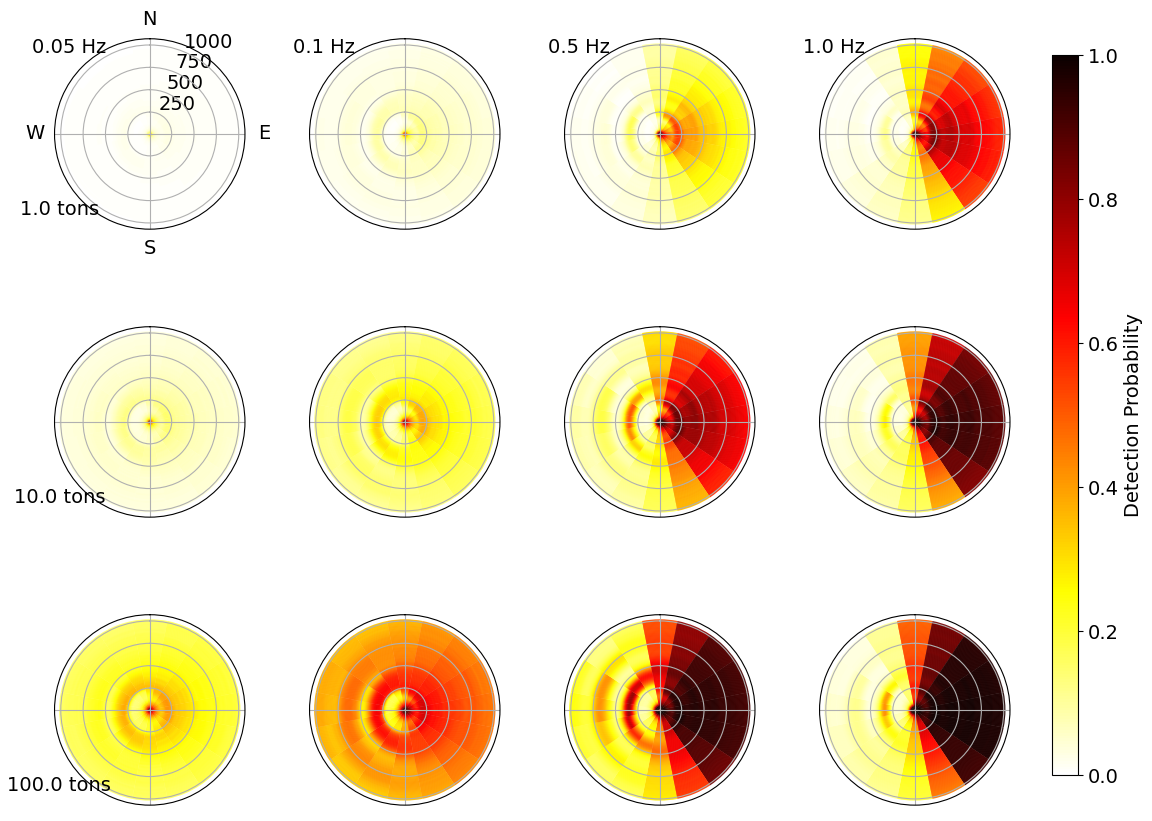
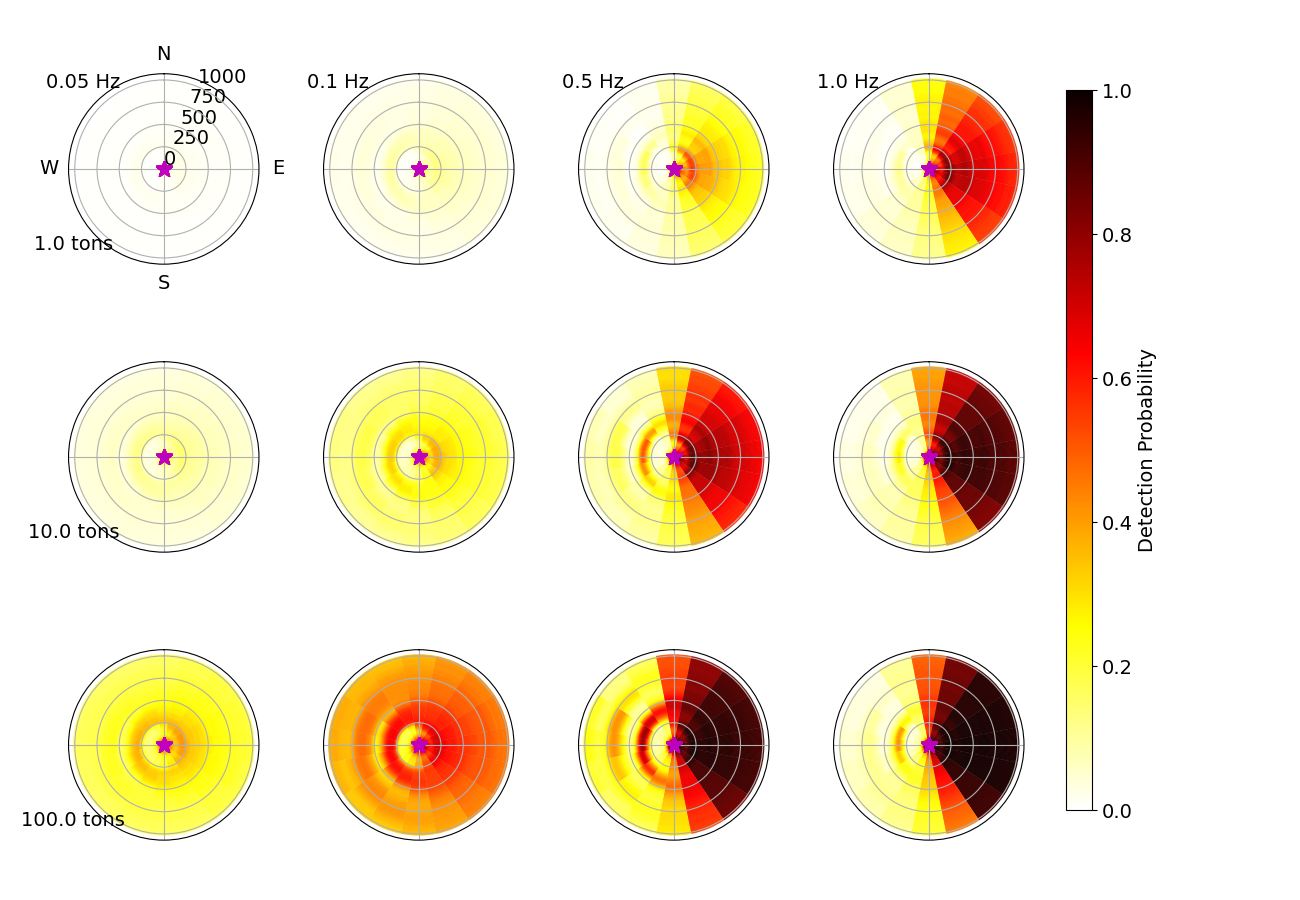
updates to quickstart and detection stats plotting

diff --git a/stochprop/propagation.py b/stochprop/propagation.py
@@ -1648,7 +1648,7 @@ def blastwave_spectrum(f, W, r, p_amb=101.325, T_amb=288.15, exp_type="chemical"
 #      Detection Capbility      #
 #     & Network Performance     #
 # ############################# #
-def plot_detection_stats(tlms, yld_vals, array_dim, output_path=None, show_fig=True):
+def plot_detection_stats(tlms, yld_vals, array_dim, output_path=None, show_fig=True, station_centered=False):
 
     plt.rcParams.update({'font.size': 14})
     _, ims_ns_cdf = ims_noise_model()
@@ -1703,21 +1703,23 @@ def plot_detection_stats(tlms, yld_vals, array_dim, output_path=None, show_fig=T
                 arrival = tlm.eval(rng_grid, P_grid - src0, np.ones_like(rng_grid) * center)
                 rng_prob = simpson(arrival * ims_ns_cdf(P_grid, tlm_freq, duration=duration, array_dim=array_dim), P_vals)
 
-                im = ax_j.bar(np.radians(np.array([center] * len(rng_vals))), width=np.radians(360.0 / tlm._az_bin_cnt), height=dr * 2.0, bottom=rng_vals, color=cm.hot_r(rng_prob), alpha=0.9)
+                if station_centered:
+                    im = ax_j.bar(np.radians(np.array([center + 180.0] * len(rng_vals))), width=np.radians(360.0 / tlm._az_bin_cnt), height=dr * 2.0, bottom=rng_vals, color=cm.hot_r(rng_prob), alpha=0.9)
+                    ax_j.plot([0.0], [0.0], '^g', markersize=10.0)
+                else:
+                    im = ax_j.bar(np.radians(np.array([center] * len(rng_vals))), width=np.radians(360.0 / tlm._az_bin_cnt), height=dr * 2.0, bottom=rng_vals, color=cm.hot_r(rng_prob), alpha=0.9)
+                    ax_j.plot([0.0], [0.0], '*m', markersize=12.0)
                         
     print('\n' + "Plotting detection statistics...", '\n')
-
     if len(yld_vals) > 1:
         for m in range(len(yld_vals)):
             axes[m][-1].axis('off')
     else:
             axes[-1].axis('off')
 
-
     cax = fig.add_axes([(len(tlms[0]) + 0.1) / (len(tlms[0]) + 1.0), 0.1, 0.02, 0.8])
     cbar = ColorbarBase(cax, cmap=cm.hot_r)
     cbar.set_label("Detection Probability")
-
 
     plt.tight_layout()
 

diff --git a/stochprop/cli/plot.py b/stochprop/cli/plot.py
@@ -349,9 +349,10 @@ def prop_model(model_file, output_id, cmap_max, hide_cbar):
 @click.option("--tlm-files", help="Path and name(s) for TLM file(s)", prompt="Enter tlm file info: ")
 @click.option("--yield-vals", help="List of yield values (tons eq. TNT)", prompt="Enter yield value(s): ")
 @click.option("--array-dim", help="Array dimension (number of sensors)", default=1, type=int)
[email redacted]("--station-centered", help="Station- or source-centered visualization", default=False)
 @click.option("--figure-out", help="Destination for figure", default=None)
 @click.option("--show-figure", help="Print figure to screen", default=True)
-def detection_stats(tlm_files, yield_vals, array_dim, figure_out, show_figure):
+def detection_stats(tlm_files, yield_vals, array_dim, station_centered, figure_out, show_figure):
     '''
     \b
     stochprop prop detection_stats 
@@ -390,7 +391,7 @@ def detection_stats(tlm_files, yield_vals, array_dim, figure_out, show_figure):
 
     # Generate plot
     yield_vals = [float(val)*1.0e3 for val in yield_vals.strip(' ()[]').split(',')]
-    sp_prop.plot_detection_stats(models, yield_vals, array_dim=array_dim, show_fig=show_figure, output_path=figure_out)
+    sp_prop.plot_detection_stats(models, yield_vals, array_dim=array_dim, show_fig=show_figure, output_path=figure_out, station_centered=station_centered)
 
 
 

diff --git a/stochprop/doc/source/quickstart.rst b/stochprop/doc/source/quickstart.rst
@@ -626,7 +626,16 @@ In this function call, the wildcard in the TLM files specification (note those q
         :align: center
         :figclass: align-center
 
-In the resulting visualization, each row corresponds to one of the explosive yield values and each column denotes results for a single transmission loss model.  *Note: this visualization method has some weird behavior when using a single TLM and/or a single yield value.  Work is ongoing to debug it.  Also, for other combinations of TLMs (e.g., summer vs. winter), the labelling needs to be corrected.*
+In the resulting visualization, each row corresponds to one of the explosive yield values and each column denotes results for a single transmission loss model.  The magenta star in the center of each panel denotes the source location in this visualization.  In the case that a station-centered detection statistic is desired, the :code:`--station-centered` flag can be used and the star is replaced by a green triangle to denote the station location.
+
+    .. code:: none
+
+        stochprop plot detection-stats --tlm-files 'prop/US_RM/US_RM-winter_*Hz.tlm' --yield-vals '1, 10, 100' --array-dim 5 --station-centered True
+
+    .. figure:: _static/_images/det-stats2.png
+        :width: 600px
+        :align: center
+        :figclass: align-center
 
 In addition to computing detection statistics for a single station, a network of stations can be analyzed to quantify the probability that an explosive source of a given yield will be detected by some limiting number of stations in the network.  Because the information required in such an analysis is a bit more complex, a file containing network info is needed.  The expected format is a comma-separated-value (CSV) file containing the latitude and longitude of each station, the number of sensor elements (to account for signal gain from beamforming analysis), and a TLM.  An example network info file is summarized below for the University of Utah infrasound network.
 

diff --git a/stochprop/doc/source/installation.rst b/stochprop/doc/source/installation.rst
@@ -58,9 +58,7 @@ To deactivate an active environment, use
     conda deactivate
 
 
--------------------------------------------
-Python Geophysics Suite (PyGS) Installation
--------------------------------------------
+**Python Geophysics Suite (PyGS) Installation**
 
 Infrasound software tools developed by LANL SMEs have become increasing coupled in usage so that having them in a common Python environment is useful.  An in-development Python Geophysics Suite (PyGS) YML file is included in the stochprop repository that will build an environment and install InfraPy, infraGA/GeoAc, and stochprop from GitHub.  It can be run using the same syntax as above,
 
@@ -75,9 +73,7 @@ All dependencies will be installed and the LANL Python libraries pulled from Git
     >> conda activate pygs
     >> infraga compile 
 
----------------------------------------------------------
-Python Geophysics Suite (PyGS) Installation - Dev Version
----------------------------------------------------------
+**Python Geophysics Suite (PyGS) Installation - Dev Version**
 
 Because the PyGS YML file installs via GitHub cloning, it doesn't copy the examples/ directories from the various libraries for demonstration and also doesn't leave the source code easily accessible for any de-bugging or customization.  A separate developer version is also included that requires a few more steps.  Build an instance of the environment with just stochprop included using the included YML file,
 